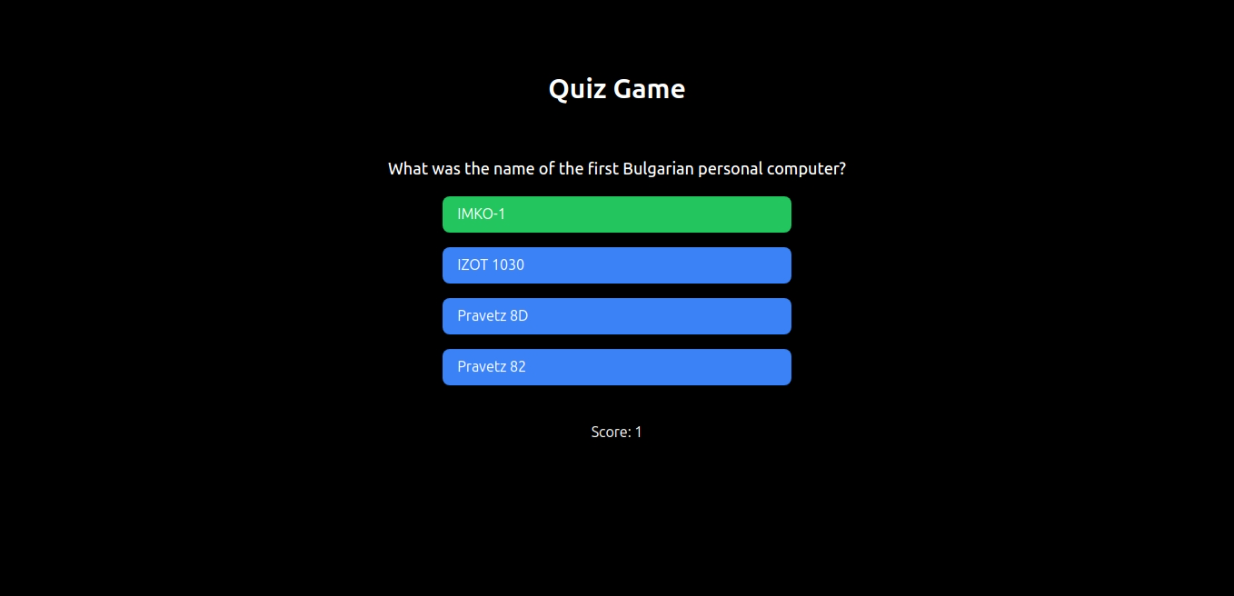
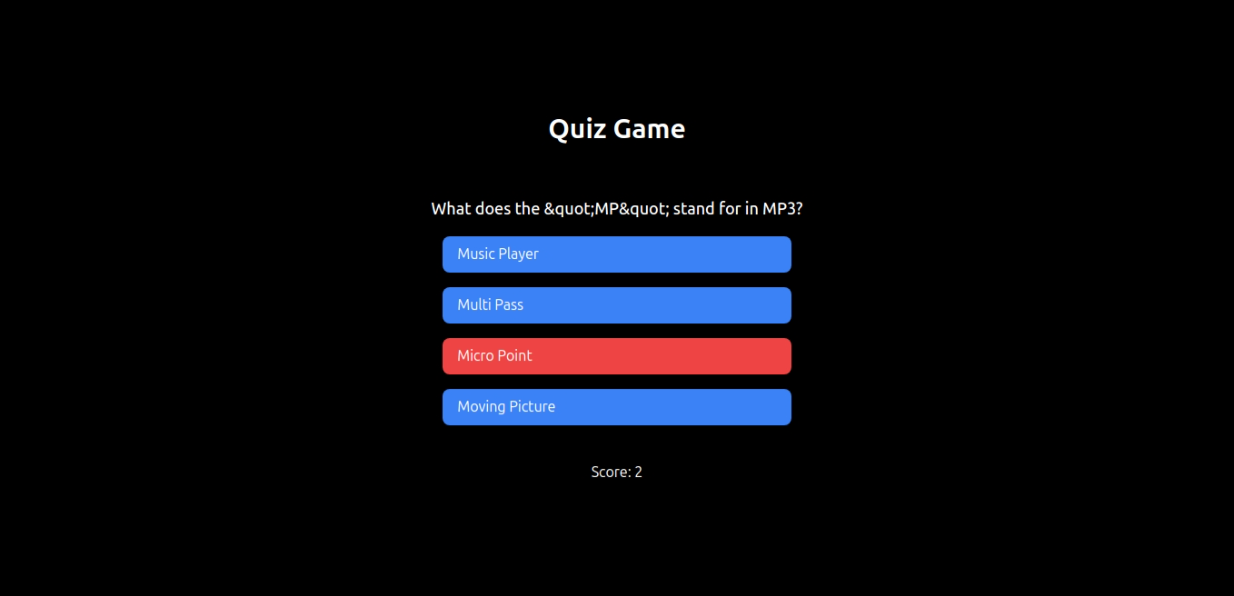
first commit

Changed region(s): [[0.3079, 0.2718, 0.7083, 0.755], [0.4311, 0.1208, 0.5543, 0.2416], [0.4619, 0.7852, 0.5235, 0.8154]]

diff --git a/src/app/Quiz/page.tsx b/src/app/Quiz/page.tsx
@@ -17,20 +17,36 @@ const QuizGame: React.FC = () => {
 
   useEffect(() => {
     const fetchQuestions = async () => {
-      const res = await fetch(
-        'https://opentdb.com/api.php?amount=10&category=18&type=multiple'
-      );
-      const data = await res.json();
-      const formattedQuestions = data.results.map((q: any) => ({
-        question: q.question,
-        correct_answer: q.correct_answer,
-        incorrect_answers: q.incorrect_answers,
-      }));
-      setQuestions(formattedQuestions);
+      try {
+        const res = await fetch(
+          'https://opentdb.com/api.php?amount=10&category=18&type=multiple'
+        );
+  
+        if (!res.ok) {
+          throw new Error(`HTTP error! status: ${res.status}`);
+        }
+  
+        const data = await res.json();
+  
+        if (!data.results || !Array.isArray(data.results)) {
+          throw new Error('Invalid data structure from API');
+        }
+  
+        const formattedQuestions = data.results.map((q: any) => ({
+          question: q.question,
+          correct_answer: q.correct_answer,
+          incorrect_answers: q.incorrect_answers,
+        }));
+        setQuestions(formattedQuestions);
+      } catch (error) {
+        console.error('Failed to fetch questions:', error);
+        setQuestions([]);
+      }
     };
-
+  
     fetchQuestions();
   }, []);
+  
 
   const handleAnswer = (answer: string) => {
     if (answer === questions[currentQuestionIndex].correct_answer) {
@@ -81,7 +97,7 @@ const QuizGame: React.FC = () => {
   );
 
   return (
-    <div className="flex flex-col items-center bg-black text-white h-screen">
+    <div className="flex flex-col items-center justify-center bg-black text-white h-screen">
       <h1 className="text-3xl font-bold">Quiz Game</h1>
       <div className="mt-8 w-3/5 p-6 bg-black shadow-md rounded-lg text-center">
         <p className="text-lg font-medium">{currentQuestion.question}</p>

diff --git a/src/app/Main.tsx b/src/app/Main.tsx
@@ -12,7 +12,7 @@ export default function Main() {
 
   return (
     <div className="bg-black text-white min-h-screen">
-      <h1 className="text-center py-16 text-3xl">Welcome to Mohamed&apos;s Games!</h1>
+      <h1 className="text-center py-16 text-3xl">Welcome to Mohamed Mehdi&apos;s Games!</h1>
       <ul className="flex justify-center gap-6 flex-wrap">
         {
           games.map((item,index)=>(

diff --git a/src/app/layout.tsx b/src/app/layout.tsx
@@ -3,7 +3,7 @@ import "./globals.css";
 
 
 export const metadata: Metadata = {
-  title: "Create Next App",
+  title: "Games",
   description: "Generated by create next app",
 };
 
